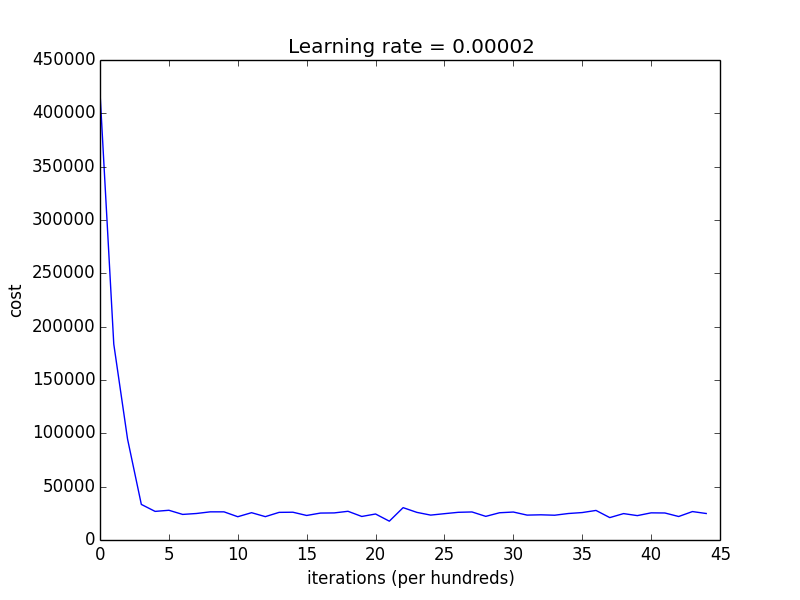
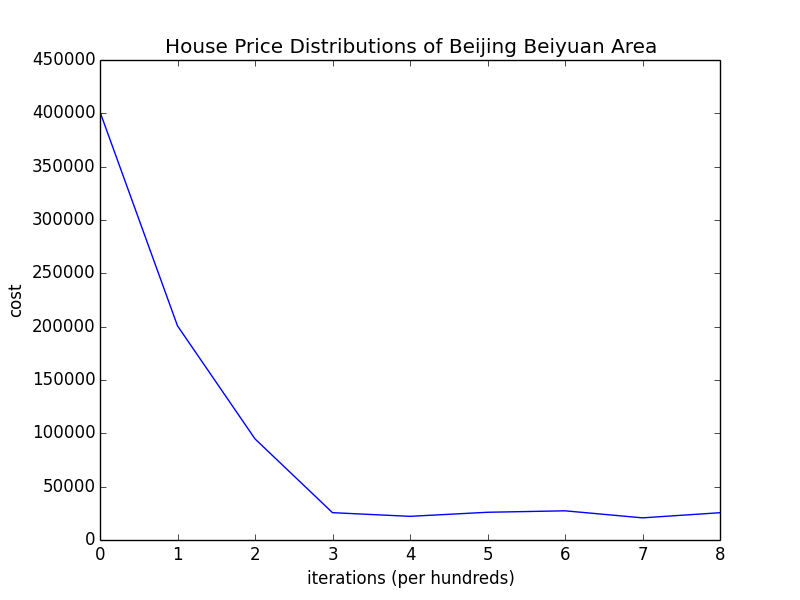
调整costs.png标题

diff --git a/lesson1/train.py b/lesson1/train.py
@@ -124,7 +124,7 @@ def plot_costs(costs):
     plt.plot(costs)
     plt.ylabel('cost')
     plt.xlabel('iterations (per hundreds)')
-    plt.title("Learning rate = 0.00002")
+    plt.title("House Price Distributions of Beijing Beiyuan Area")
     plt.show()
     plt.savefig('costs.png')
 
@@ -169,7 +169,7 @@ def main():
         Return:
         """
         if isinstance(event, paddle.event.EndIteration):
-            if event.pass_id % 20 == 0:
+            if event.pass_id % 100 == 0:
                 print "Pass %d, Batch %d, Cost %f" % (
                     event.pass_id, event.batch_id, event.cost)
                 costs.append(event.cost)
